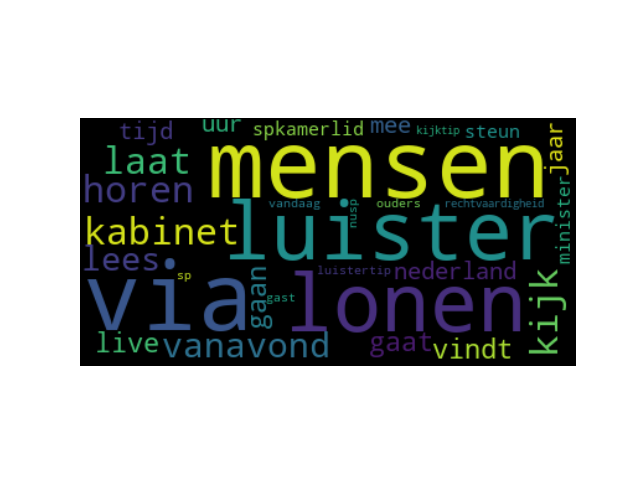
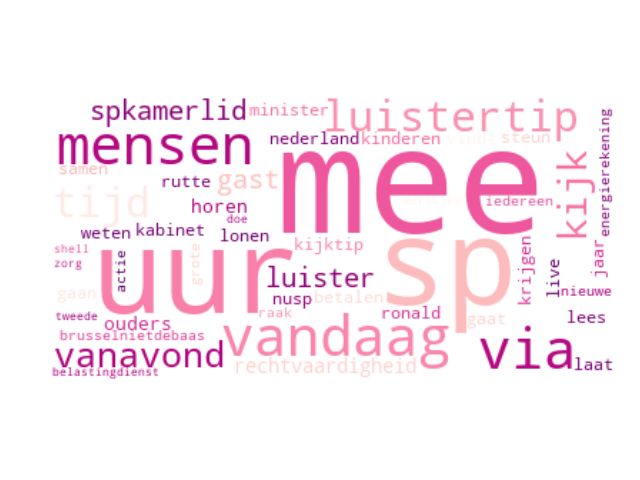
Create word cloud according to word frequencies

diff --git a/process_tweets.py b/process_tweets.py
@@ -8,6 +8,7 @@ from collections import Counter
 import demoji
 from wordcloud import WordCloud
 
+
 ### Downlaoads
 
 # demoji.download_codes()
@@ -22,6 +23,11 @@ pd.options.mode.chained_assignment = None  # Turn off warnings
 
 
 ### Functions
+
+# Show information about tweet data set
+def show_data_summary(tweets_df):
+    print(tweets_df['political_party'].value_counts())  # Count tweets per party
+
 
 # Load stop words
 def load_stopwords(file_name):
@@ -94,24 +100,24 @@ def compute_topics(tweets_df, stop_words):
     tweets_df = tweets_df[['political_party', 'clean_tweets']].drop_duplicates().reset_index(drop=True)
     tweets_df["bag_of_words"] = tweets_df['clean_tweets'].apply(tokenize)
     tweets_df['word_frequencies'] = tweets_df['bag_of_words'].apply(Counter)
-    tweets_df['topics'] = tweets_df['word_frequencies'].apply(lambda x: x.most_common(30))
-    tweets_df['topics'] = tweets_df['topics'].apply(lambda x: dict(x).keys())
+    tweets_df['topics'] = tweets_df['word_frequencies'].apply(lambda x: x.most_common(50))
+    tweets_df['topics'] = tweets_df['topics'].apply(lambda x: dict(x))
 
     return tweets_df[['political_party', 'topics']]
 
 
 # Generate a word cloud for a string of wowrds
 def generate_word_cloud(words, party):
-    word_cloud = WordCloud().generate(words)
+    word_cloud = WordCloud(background_color="white", colormap='RdPu').generate_from_frequencies(words)
     plt.imshow(word_cloud, interpolation='bilinear')
     plt.axis("off")
+    plt.tight_layout()
     plt.savefig("plots/topics_"+party+".png")
     plt.close()
 
 
 # Create word clouds from the lists of topics discussed for each party
 def topics_to_word_cloud(topic_tweets):
-    topic_tweets['topics'] = topic_tweets['topics'].transform(lambda x: ' '.join(x))
     topic_tweets.apply(lambda x: generate_word_cloud(x.topics, x.political_party),  axis=1)
 
 
@@ -120,10 +126,10 @@ def main():
     tweets = pd.read_csv("tweets.csv", encoding='utf-8')
     stop_words = load_stopwords('stopwords.txt')
     tweets = clean_data(tweets)
+    show_data_summary(tweets)
     tweets = compute_sentiment(tweets)
-    plot_sentiment(tweets)
-    print(tweets['political_party'].value_counts())  # Count tweets per party
     topics = compute_topics(tweets, stop_words)
+    plot_sentiment(tweets)
     topics_to_word_cloud(topics)
 
 
